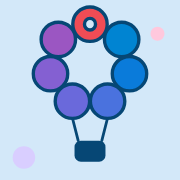
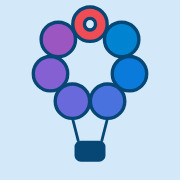
Icone app: scura con il nuovo fondo e senza contorni sui dischi, chiara senza i pallini agli angoli; script per rigenerarle
Claude-Session: https://claude.ai/code/session_01LzVinJFsJdwFPp8vDFVzL3

Changed region(s): [[0.0556, 0.8056, 0.1944, 0.9444], [0.8333, 0.1389, 0.9167, 0.25]]

diff --git a/scripts/genera-icone.py b/scripts/genera-icone.py
@@ -1,0 +1,45 @@
+# Rigenera le icone dell'app (SVG, PWA, iOS chiara/scura, Android legacy) da un unico disegno. Uso: python3 scripts/genera-icone.py
+import os, sys
+from playwright.sync_api import sync_playwright
+R=__import__('os').path.join(__import__('os').path.dirname(__import__('os').path.abspath(__file__)),'..','')
+ROPE='M51.5 83.9L55.6 100.0M76.5 83.9L72.4 100.0'
+RING='M51.76 17.20a12.24 12.24 0 1 0 24.48 0a12.24 12.24 0 1 0 -24.48 0ZM60.08 17.20a3.92 3.92 0 1 0 7.83 0a3.92 3.92 0 1 0 -7.83 0Z'
+C=[(86.51,28.04),(92.08,52.41),(76.5,71.95),(51.5,71.95),(35.92,52.41),(41.49,28.04)]
+T={'light':dict(bg='#D3E8F9',rope='#064775',basket='#064775',ring='#F04C55',stroke='#064775',sw=2.4,cols=['#0084D2','#0A7BDA','#4A72DE','#6A69DB','#8460D2','#9B56C2']),
+   'dark':dict(bg='#0D1118',rope='#D3E8F9',basket='#A8D1F1',ring='#FF6E70',stroke=None,sw=0,cols=['#26B0F7','#57A8FF','#78A0FF','#9398FF','#AC8FF8','#C487E8'])}
+def art(t):
+    s=f' stroke="{t["stroke"]}" stroke-width="{t["sw"]}"' if t['stroke'] else ''
+    o=f'<path d="{ROPE}" stroke="{t["rope"]}" stroke-width="2" stroke-linecap="round"></path><rect x="53.0" y="100.0" width="22.0" height="15.0" rx="4.5" fill="{t["basket"]}"></rect>'
+    o+=f'<path d="{RING}" fill="{t["ring"]}" fill-rule="evenodd"{s}></path>'
+    o+=''.join(f'<circle cx="{x}" cy="{y}" r="12.24" fill="{c}"{s}></circle>' for (x,y),c in zip(C,t['cols']))
+    return o
+def svg(theme, shape='rounded', scale=1.0, title=True):
+    t=T[theme]; cid='y3'+theme[0]+'T'
+    if shape=='rounded': bg=f'<rect width="128" height="128" rx="29" fill="{t["bg"]}"></rect>'; clip=f'<defs><clipPath id="{cid}"><rect width="128" height="128" rx="29"></rect></clipPath></defs>'; g=f'<g clip-path="url(#{cid})">'
+    elif shape=='circle': bg=f'<circle cx="64" cy="64" r="64" fill="{t["bg"]}"></circle>'; clip=''; g='<g>'
+    elif shape=='legacy': bg=f'<rect x="5.33" y="5.33" width="117.33" height="117.33" rx="3" fill="{t["bg"]}"></rect>'; clip=''; g='<g transform="translate(5.33 5.33) scale(0.9167)">'
+    else: bg=f'<rect width="128" height="128" fill="{t["bg"]}"></rect>'; clip=''; g='<g>'
+    tr=f'<g transform="translate(64 64) scale({scale}) translate(-64 -64)">' if scale!=1 else '<g>'
+    lab=f'Faraway, icona app {theme}'
+    head=f'<svg xmlns="http://www.w3.org/2000/svg" width="128" height="128" viewBox="0 0 128 128" role="img" aria-label="{lab}"><title>{lab}</title>' if title else '<svg xmlns="http://www.w3.org/2000/svg" viewBox="0 0 128 128">'
+    return head+clip+bg+g+tr+art(t)+'</g></g></svg>'
+# sorgenti SVG
+for th in ['light','dark']:
+    open(R+f'src/assets/art/faraway-app-icon-anello-mongolfiera-{th}.svg','w').write(svg(th))
+open(R+'public/favicon.svg','w').write(svg('light'))
+jobs=[('ios/App/App/Assets.xcassets/AppIcon.appiconset/AppIcon-512@2x.png','light','square',1,1024),
+      ('ios/App/App/Assets.xcassets/AppIcon.appiconset/AppIcon-dark.png','dark','square',1,1024),
+      ('public/icon-512.png','light','rounded',1,512),('public/icon-192.png','light','rounded',1,192),('public/favicon-64.png','light','rounded',1,64),
+      ('public/apple-touch-icon.png','light','square',1,180),('public/icon-512-maskable.png','light','square',0.72,512)]
+for d,n in [('mdpi',48),('hdpi',72),('xhdpi',96),('xxhdpi',144),('xxxhdpi',192)]:
+    jobs.append((f'android/app/src/main/res/mipmap-{d}/ic_launcher.png','light','legacy',1,n))
+    jobs.append((f'android/app/src/main/res/mipmap-{d}/ic_launcher_round.png','light','circle',1,n))
+with sync_playwright() as p:
+    b=p.chromium.launch()
+    for out,th,shape,sc,n in jobs:
+        pg=b.new_page(viewport={'width':n,'height':n})
+        pg.set_content(f'<html><body style="margin:0;background:transparent">{svg(th,shape,sc,False).replace("<svg ",f"<svg width=\"{n}\" height=\"{n}\" ",1)}</body></html>')
+        pg.screenshot(path=R+out,omit_background=(shape in ('rounded','circle','legacy')),clip={'x':0,'y':0,'width':n,'height':n})
+        pg.close()
+    b.close()
+print('ok',len(jobs))
